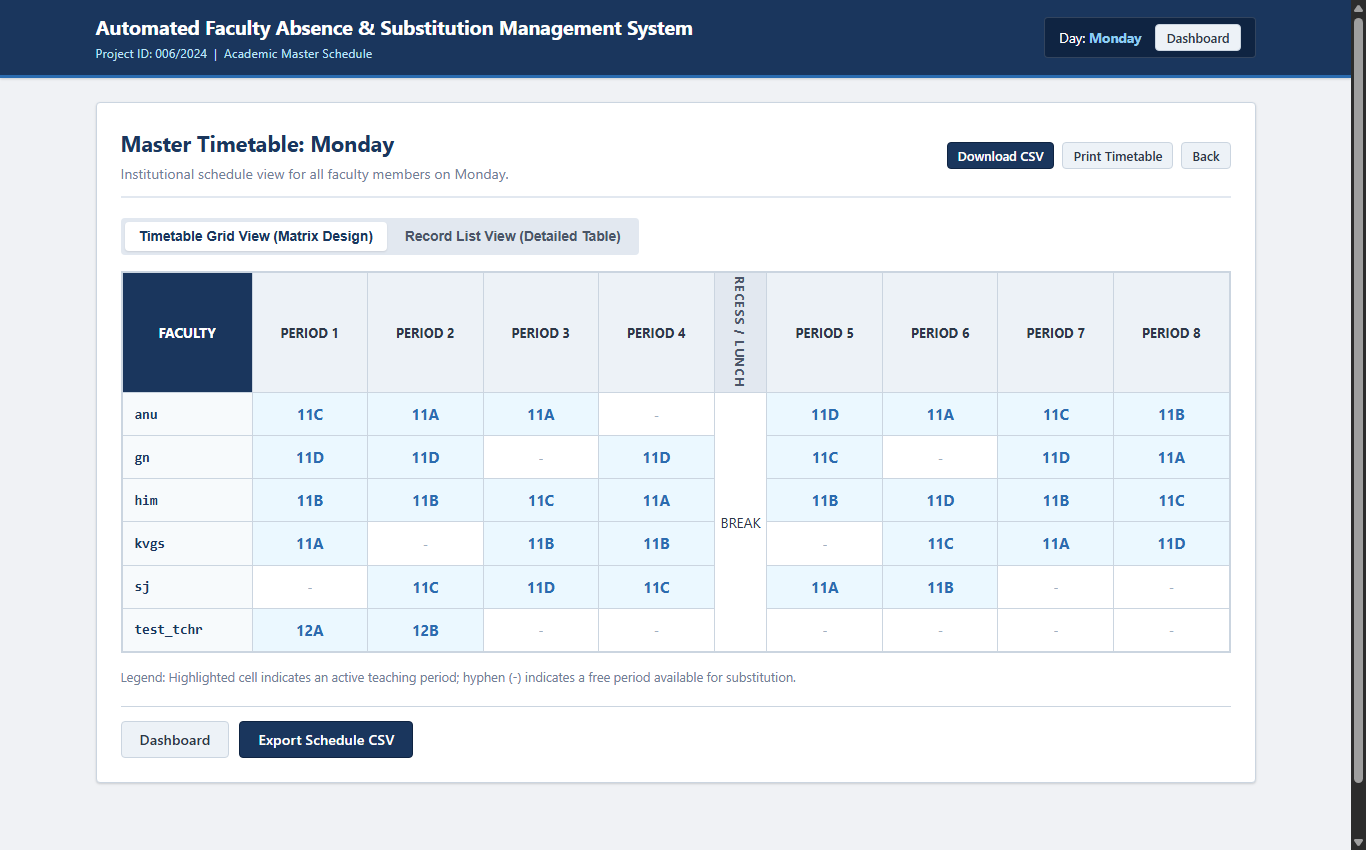
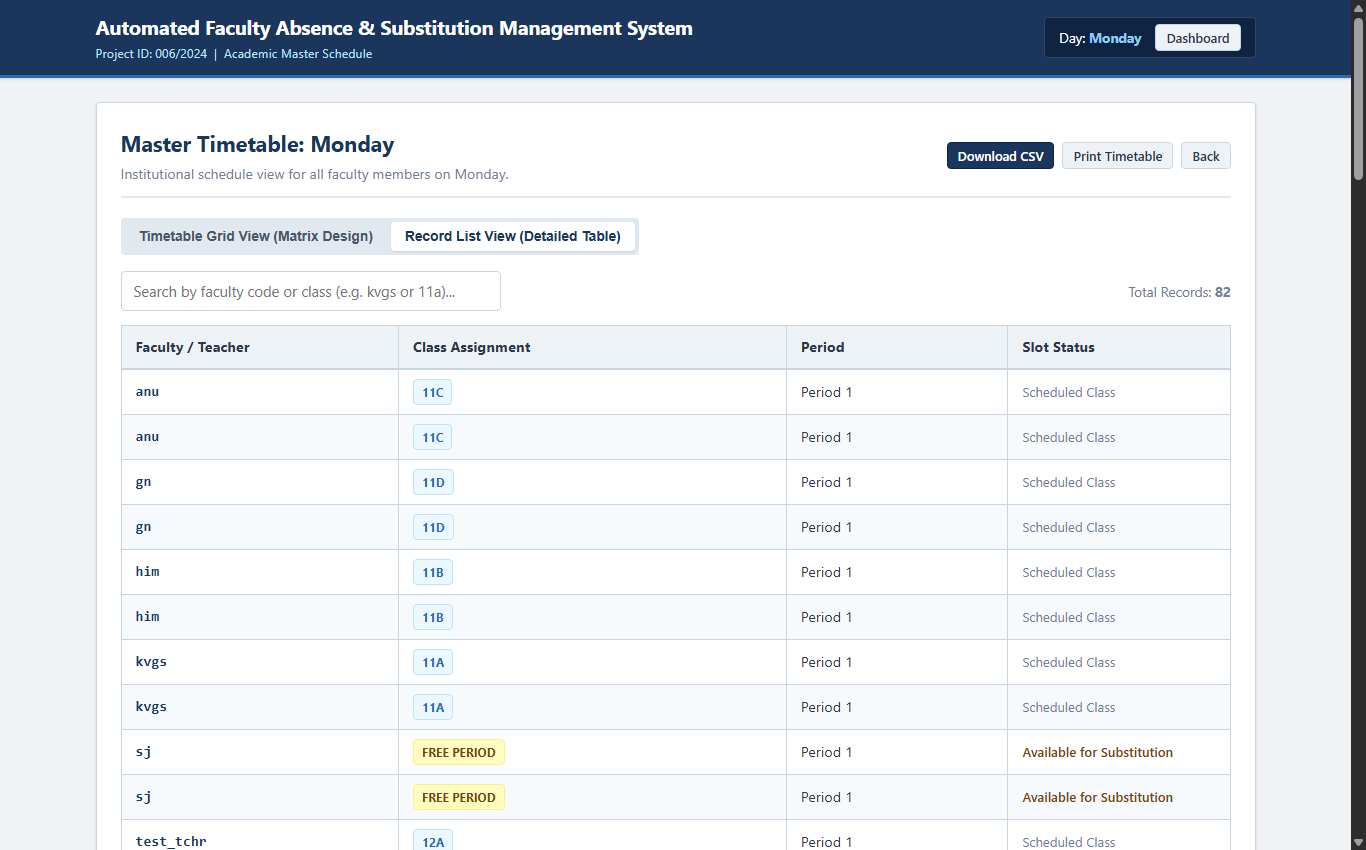
docs: regenerate distinct list-view screenshots for master timetable and substitution summary tables

diff --git a/docs/generate_screenshots.py b/docs/generate_screenshots.py
@@ -56,7 +56,19 @@ raw_html = res.data.decode('utf-8')
 snap(raw_html, '04_master_timetable_grid', 1366, 850)
 
 # 5. Master Timetable List View
-list_html = raw_html.replace('id="gridView" class="view-section active"', 'id="gridView" class="view-section"').replace('id="listView" class="view-section"', 'id="listView" class="view-section active"')
+list_html = raw_html.replace(
+    '<div id="interfaceGrid">',
+    '<div id="interfaceGrid" style="display: none;">'
+).replace(
+    '<div id="interfaceList" style="display: none;">',
+    '<div id="interfaceList" style="display: block;">'
+).replace(
+    'id="tabGridBtn" class="view-tab-btn active"',
+    'id="tabGridBtn" class="view-tab-btn"'
+).replace(
+    'id="tabListBtn" class="view-tab-btn"',
+    'id="tabListBtn" class="view-tab-btn active"'
+)
 snap(list_html, '05_master_timetable_list', 1366, 850)
 
 # 6. Faculty Absence Arrangement Request Page
@@ -69,7 +81,19 @@ raw_arr_html = res.data.decode('utf-8')
 snap(raw_arr_html, '07_substitution_matrix_grid', 1366, 920)
 
 # 8. Substitution Allocation List View
-list_arr_html = raw_arr_html.replace('id="gridView" class="view-section active"', 'id="gridView" class="view-section"').replace('id="listView" class="view-section"', 'id="listView" class="view-section active"')
+list_arr_html = raw_arr_html.replace(
+    '<div id="interfaceArrGrid">',
+    '<div id="interfaceArrGrid" style="display: none;">'
+).replace(
+    '<div id="interfaceArrList" style="display: none;">',
+    '<div id="interfaceArrList" style="display: block;">'
+).replace(
+    'id="tabArrGridBtn" class="view-tab-btn active"',
+    'id="tabArrGridBtn" class="view-tab-btn"'
+).replace(
+    'id="tabArrListBtn" class="view-tab-btn"',
+    'id="tabArrListBtn" class="view-tab-btn active"'
+)
 snap(list_arr_html, '08_substitution_table_list', 1366, 850)
 
 # 9. CSV Data Ingestion Portal
